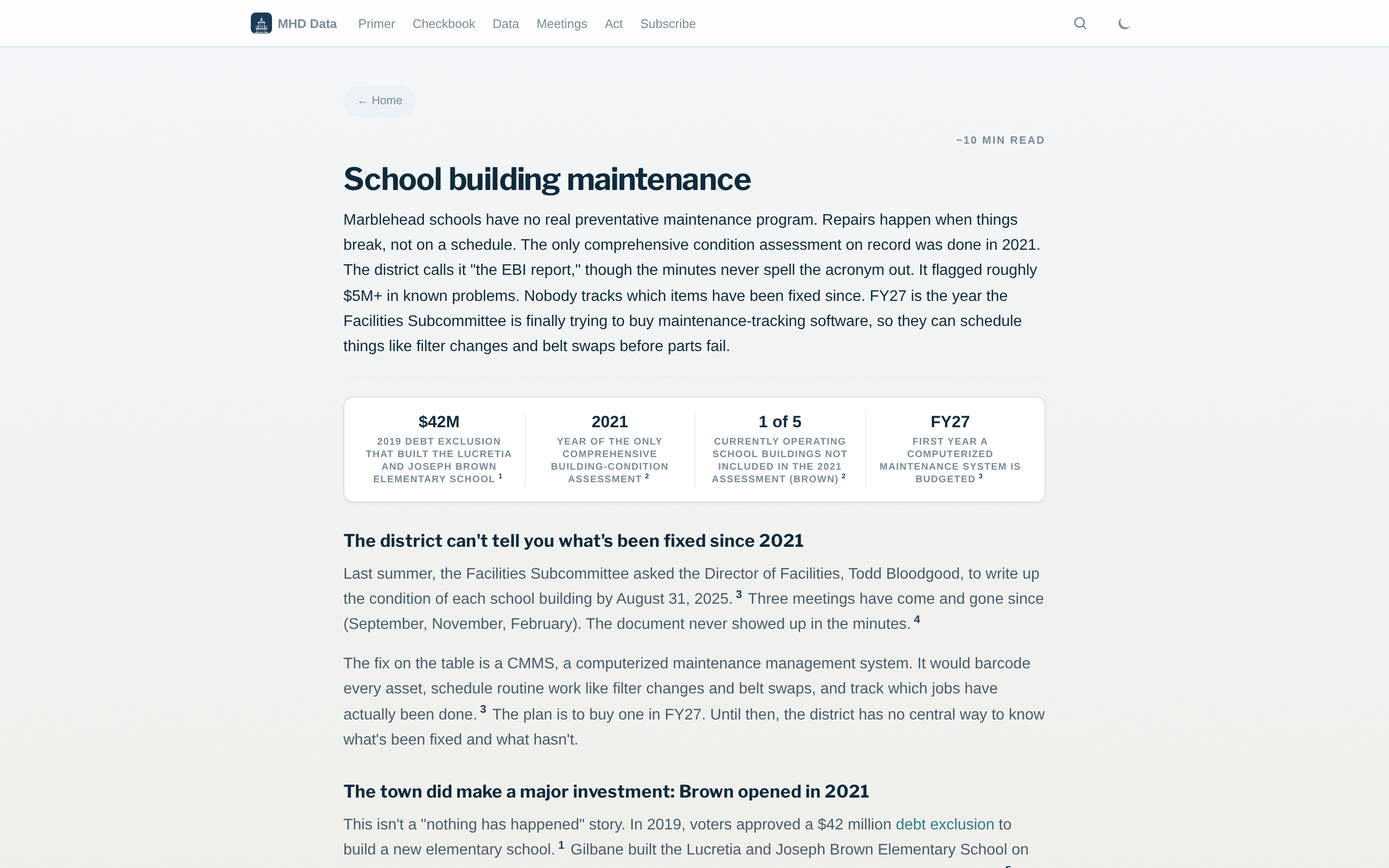
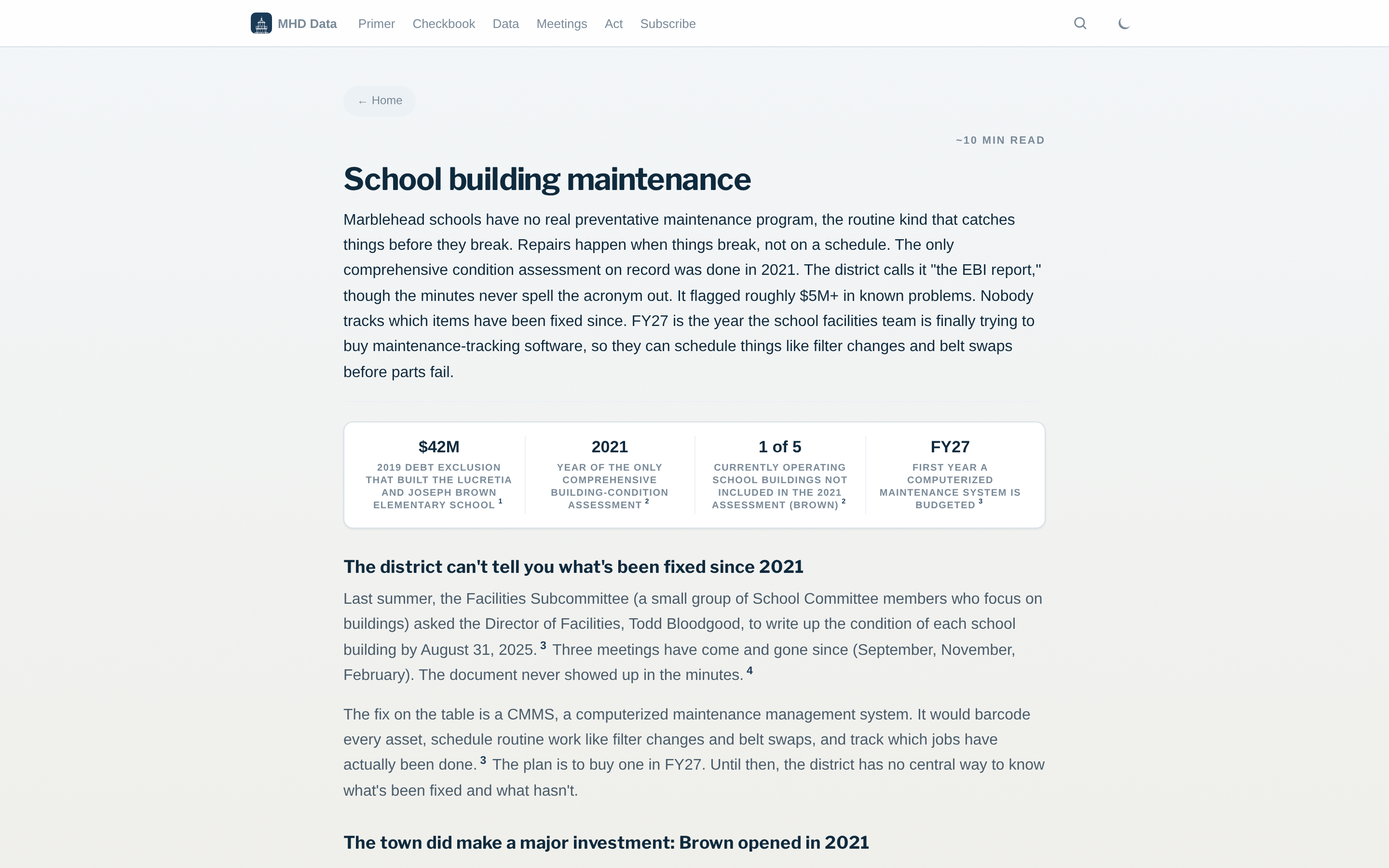
copy(school-buildings): explain jargon inline
User feedback: technical/bureaucratic terms need to be unpacked, not
just shortened. Adds plain-English glosses the first time each term
appears:

- "preventative maintenance program" — lead now says "the routine
  kind that catches things before they break"
- "Facilities Subcommittee" — Section 1 now explains it's a small
  group of School Committee members who focus on buildings
- "Adaptive Reuse" — Coffin section now says "the Town calls this
  process 'Adaptive Reuse,' which is just a formal way of saying
  'deciding what an old building should be used for next.'"
- "MHTV" — Section 6 now says "(Marblehead's community TV station)"
- Timeline label "PM program events" — became "Maintenance program
  events"
- Timeline endpoint "FY27 CMMS RFP target" — became "FY27
  maintenance-tracking software target"
- Section 8 bullet "CMMS coming" — became "Maintenance-tracking
  software"

Tests: 31/31. Acronyms preserved where they're explained inline
(CMMS is still introduced in Section 1 with the plain-English
expansion) but the timeline labels and the bullet that previously
relied on the reader knowing what CMMS means now stand on their
own.

Generated with [Claude Code](https://claude.ai/code)
via [Happy](https://happy.engineering)

Changed region(s): [[0.25, 0.4667, 0.75, 0.9956], [0.25, 0.2489, 0.75, 0.4356]]

diff --git a/school-building-maintenance.html b/school-building-maintenance.html
@@ -50,7 +50,7 @@ og_url: https://marbleheaddata.org/school-building-maintenance.html
 
 <h1>School building maintenance</h1>
 <p class="page-lead">
-  Marblehead schools have no real preventative maintenance program. Repairs happen when things break, not on a schedule. The only comprehensive condition assessment on record was done in 2021. The district calls it "the EBI report," though the minutes never spell the acronym out. It flagged roughly $5M+ in known problems. Nobody tracks which items have been fixed since. FY27 is the year the Facilities Subcommittee is finally trying to buy maintenance-tracking software, so they can schedule things like filter changes and belt swaps before parts fail.
+  Marblehead schools have no real preventative maintenance program, the routine kind that catches things before they break. Repairs happen when things break, not on a schedule. The only comprehensive condition assessment on record was done in 2021. The district calls it "the EBI report," though the minutes never spell the acronym out. It flagged roughly $5M+ in known problems. Nobody tracks which items have been fixed since. FY27 is the year the school facilities team is finally trying to buy maintenance-tracking software, so they can schedule things like filter changes and belt swaps before parts fail.
 </p>
 
 <div class="key-stats">
@@ -74,7 +74,7 @@ og_url: https://marbleheaddata.org/school-building-maintenance.html
 
 <h2 id="tracking-gap">The district can't tell you what's been fixed since 2021</h2>
 
-<p>Last summer, the Facilities Subcommittee asked the Director of Facilities, Todd Bloodgood, to write up the condition of each school building by August 31, 2025.<sup class="cite" data-href="data/schools/sc-meetings-fy26/facilities-subcommittee-minutes-7-24-2025.txt" data-source="Marblehead Public Schools Facilities Subcommittee minutes, 7/24/2025."></sup> Three meetings have come and gone since (September, November, February). The document never showed up in the minutes.<sup class="cite" data-href="data/schools/sc-meetings-fy26/facilities-subcommittee-minutes-9-5-2025.txt" data-source="Marblehead Public Schools Facilities Subcommittee minutes, 9/5/2025, 11/5/2025, and 2/13/2026. None reference the August 31 2025 written-status deliverable."></sup></p>
+<p>Last summer, the Facilities Subcommittee (a small group of School Committee members who focus on buildings) asked the Director of Facilities, Todd Bloodgood, to write up the condition of each school building by August 31, 2025.<sup class="cite" data-href="data/schools/sc-meetings-fy26/facilities-subcommittee-minutes-7-24-2025.txt" data-source="Marblehead Public Schools Facilities Subcommittee minutes, 7/24/2025."></sup> Three meetings have come and gone since (September, November, February). The document never showed up in the minutes.<sup class="cite" data-href="data/schools/sc-meetings-fy26/facilities-subcommittee-minutes-9-5-2025.txt" data-source="Marblehead Public Schools Facilities Subcommittee minutes, 9/5/2025, 11/5/2025, and 2/13/2026. None reference the August 31 2025 written-status deliverable."></sup></p>
 
 <p>The fix on the table is a CMMS, a computerized maintenance management system. It would barcode every asset, schedule routine work like filter changes and belt swaps, and track which jobs have actually been done.<sup class="cite" data-href="data/schools/sc-meetings-fy26/facilities-subcommittee-minutes-7-24-2025.txt" data-source="Marblehead Public Schools Facilities Subcommittee minutes, 7/24/2025: 'Moving to a modern CMMS to barcode assets, schedule PM (filters, belts), and improve ticket data.'"></sup> The plan is to buy one in FY27. Until then, the district has no central way to know what's been fixed and what hasn't.</p>
 
@@ -128,7 +128,7 @@ og_url: https://marbleheaddata.org/school-building-maintenance.html
     <!-- BOTTOM TRACK: PM events, scale 2018 → 2027 across x = 60..760  -->
     <!-- 9 years over 700 px = 77.78 px/year                            -->
     <!-- ============================================================ -->
-    <text class="sbm-tl-track-label" x="10" y="138" font-size="12">PM program events</text>
+    <text class="sbm-tl-track-label" x="10" y="138" font-size="12">Maintenance program events</text>
     <text class="tick-label" x="60" y="178" font-size="10">2018</text>
     <text class="tick-label" x="760" y="178" font-size="10" text-anchor="end">FY27</text>
     <line class="sbm-tl-axis" x1="60" y1="188" x2="760" y2="188"/>
@@ -162,7 +162,7 @@ og_url: https://marbleheaddata.org/school-building-maintenance.html
       <!-- FY27 CMMS RFP target (x = 760) — label below, deeper offset -->
       <circle cx="760" cy="188" r="4" fill="currentColor"/>
       <line class="sbm-tl-leader" x1="760" y1="188" x2="760" y2="244"/>
-      <text class="tick-label" x="760" y="258" text-anchor="end" font-size="11">FY27 CMMS RFP target</text>
+      <text class="tick-label" x="760" y="258" text-anchor="end" font-size="11">FY27 maintenance-tracking software target</text>
     </g>
   </svg>
 </div>
@@ -259,7 +259,7 @@ og_url: https://marbleheaddata.org/school-building-maintenance.html
 </table>
 <p class="caption">Itemized in the 2021 EBI plan.<sup class="cite" data-href="data/schools/capital-facilities/capital-facilities-plan.txt" data-source="Marblehead Public Schools Capital Facilities Plan, Coffin/Gerry/Upper Bell/Lower Bell rows."></sup></p>
 
-<p><strong>Coffin.</strong> Vacant since Brown opened in October 2021. The Select Board took over from the School Committee and is figuring out what to do with the building. Five town departments pitched ideas last fall:</p>
+<p><strong>Coffin.</strong> Vacant since Brown opened in October 2021. The Select Board took over from the School Committee and is figuring out what to do with the building. The Town calls this process "Adaptive Reuse," which is just a formal way of saying "deciding what an old building should be used for next." Five town departments pitched ideas last fall:</p>
 
 <ul>
   <li>Cemetery Department &mdash; burial space</li>
@@ -281,7 +281,7 @@ og_url: https://marbleheaddata.org/school-building-maintenance.html
 
 <blockquote>"As we walked, I was shown classrooms that had leaks and how they were being mitigated. As our walk continued, if teachers noticed us, they would pop out of their classrooms to report new leaks or leaks that were stopped, but it started up again. The custodians were everywhere with buckets and mops trying to keep up with the leaks &hellip; what is clear to me is that the continued priority must be made to move forward with a new replacement roof."</blockquote>
 
-<p>Veterans Middle School got hit a different way in February 2026. A roofing subcontractor wrapped the new membrane over the drainage holes. The next rain ran under the roof and flooded the classrooms below. Insurance covered the new ceiling tiles, lighting, outlets, sprinklers, smoke detectors, pull stations, and horn strobes. The district refused to pay the contractor until everything was fixed. A classroom or two had to be relocated. MHTV, which records from the D-wing, still hasn't moved back in.<sup class="cite" data-href="data/schools/sc-meetings-fy26/facilities-subcommittee-minutes-2-13-2026.txt" data-source="Marblehead Public Schools Facilities Subcommittee minutes, 2/13/2026: Veterans D-wing contractor-caused flood; insurance scope; MHTV displaced."></sup></p>
+<p>Veterans Middle School got hit a different way in February 2026. A roofing subcontractor wrapped the new membrane over the drainage holes. The next rain ran under the roof and flooded the classrooms below. Insurance covered the new ceiling tiles, lighting, outlets, sprinklers, smoke detectors, pull stations, and horn strobes. The district refused to pay the contractor until everything was fixed. A classroom or two had to be relocated. MHTV (Marblehead's community TV station), which records its programming from the D-wing, still hasn't moved back in.<sup class="cite" data-href="data/schools/sc-meetings-fy26/facilities-subcommittee-minutes-2-13-2026.txt" data-source="Marblehead Public Schools Facilities Subcommittee minutes, 2/13/2026: Veterans D-wing contractor-caused flood; insurance scope; MHTV displaced."></sup></p>
 
 <h2 id="how-paid">How it gets paid for</h2>
 
@@ -296,7 +296,7 @@ og_url: https://marbleheaddata.org/school-building-maintenance.html
 <ul>
   <li><strong>High school roof and HVAC.</strong> Three small sections done over April 2026 vacation. The full project happens summer 2026. New HVAC equipment arrives in July.<sup class="cite" data-href="_transcripts/school-committee-2026-04-09.md" data-source="Marblehead School Committee transcript, 4/9/2026, subcommittee updates. Roof project at Veterans Middle School starting up in two weeks; Marblehead High School roof done in three small sections during April vacation. Long-lead HVAC and steel-fabrication items being tracked closely; delivery on schedule."></sup></li>
   <li><strong>Override passed.</strong> Voters approved Tier 3 on June 9, 2026.<sup class="cite" data-href="2026-override/index.html" data-source="2026-override/index.html: 'All four ballot questions passed.'"></sup> The school side includes the new $500K/year building capital fund. The School Committee unanimously endorsed Tier 3 a few weeks earlier on May 21.<sup class="cite" data-href="_transcripts/school-committee-2026-05-21.md" data-source="Marblehead School Committee transcript, 5/21/2026: 4-0 vote to issue a proclamation officially supporting Tier 3 of the proposed FY27-FY29 Prop 2.5 override, providing $8.5 million on the school side including a recurring school building capital fund."></sup></li>
-  <li><strong>CMMS coming.</strong> The first real way to track building maintenance. Targeted for FY27.</li>
+  <li><strong>Maintenance-tracking software.</strong> Planned for FY27. The first real way for the district to track which jobs have been done.</li>
   <li><strong>Coffin School future.</strong> Community meeting #3 was May 20.<sup class="cite" data-href="https://marbleheadma.gov/coffin-school-adaptive-reuse/" data-source="Town of Marblehead Coffin School Adaptive Reuse page."></sup></li>
   <li><strong>Veterans D-wing.</strong> Repaired. MHTV hasn't moved back in yet.</li>
 </ul>
